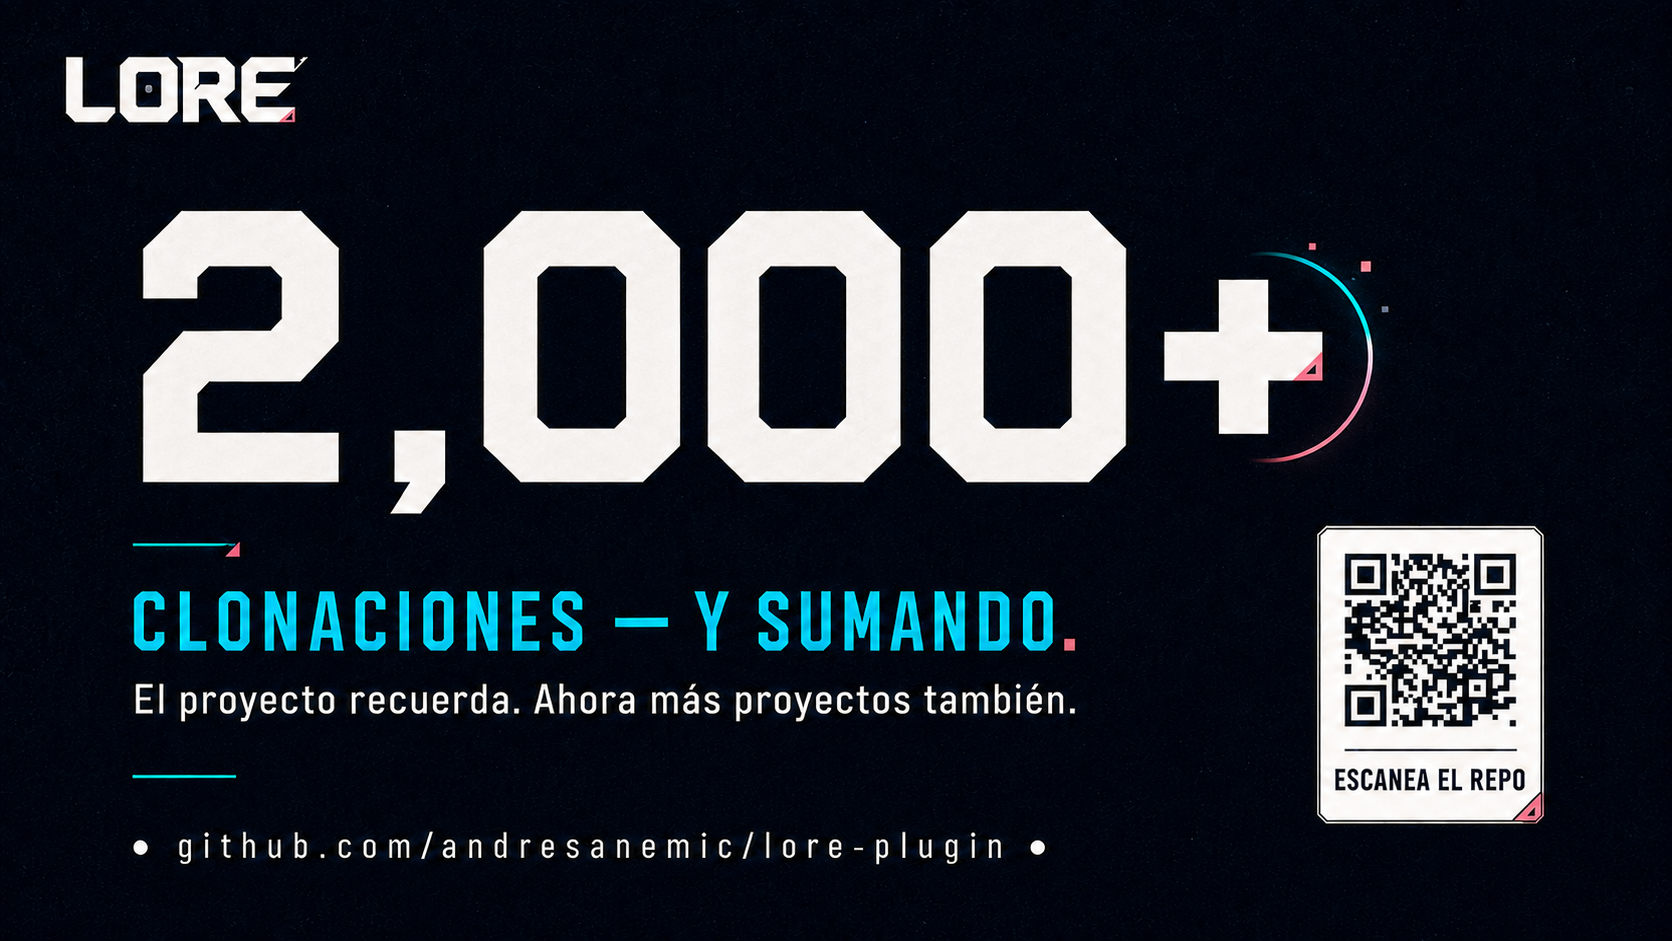
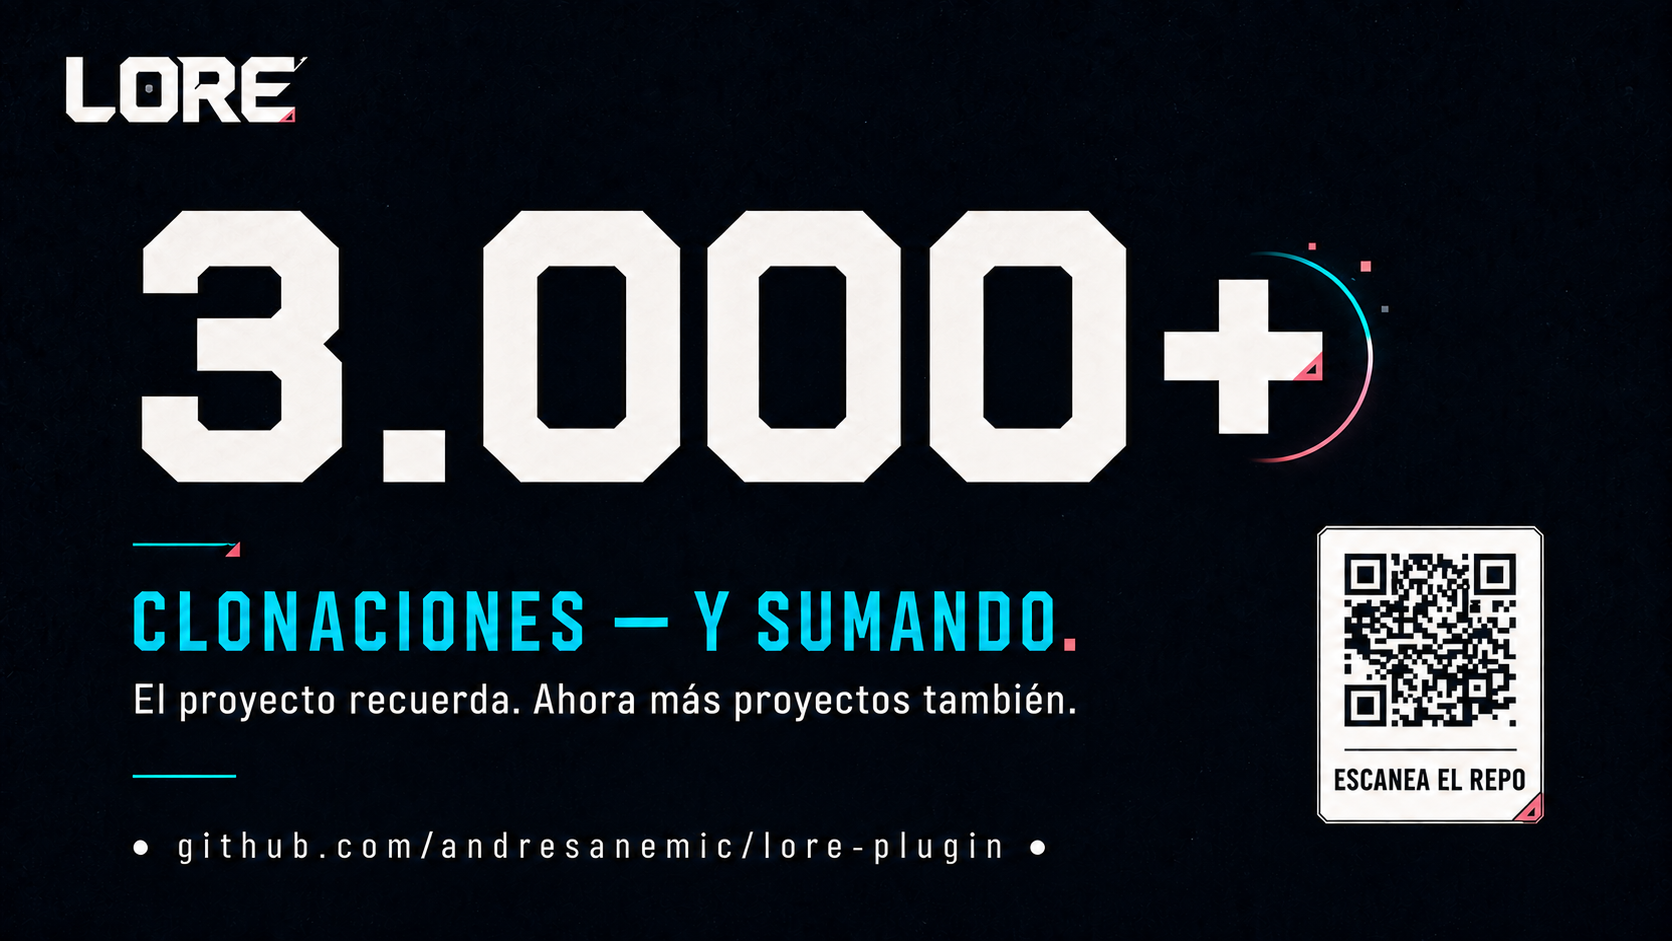
skill: create-area gains narrative soil per section (§20 pilot)

diff --git a/skills/create-area/SKILL.md b/skills/create-area/SKILL.md
@@ -32,6 +32,10 @@ creates the area.
 
 ## Area model (federated + hybrid)
 
+Ya viviste la escena: un dominio nuevo te pide casa propia y terminas copiando el contrato del
+proyecto anterior, con el nombre viejo sin cambiar y las fases pensadas para otro tipo de trabajo.
+El área nace para que eso no vuelva a pasar.
+
 - The area is a **light** folder: one instruction contract + `FASES.md` + `lore/` + `proyectos/` + `_starter/`.
 - The area carries its own **project scaffold** in `_starter/` — the templates (`{{CONTRACT_FILE}}.template.md`,
   `FASES.md`, and `golden-paths.template.md` when the domain warrants it) **tuned to this area's
@@ -48,7 +52,14 @@ creates the area.
 
 ## Procedure (step by step)
 
+Llegas con el dominio en la cabeza pero sin identidad escrita. Este es el orden que lo sostiene:
+primero se piensa, después se escribe, al final se verifica. Saltarse el umbral es la vía más
+rápida hacia un área de la que en seis meses nadie se acuerda.
+
 ### 1. Identity brainstorm (threshold)
+
+Te piden un área y ya traes las carpetas creadas en la cabeza. Aquí se invierten los tiempos:
+primero la forma, después los archivos.
 
 **Create no file or folder before the design is approved.** Invoke Lore Plugin's own
 `brainstorming-lore` skill (`lore:brainstorming-lore` where skills are namespaced). Ask
@@ -114,6 +125,8 @@ carry each approved decision into the accumulated area design and recap it at co
 
 ### 2. Create the structure
 
+La identidad ya tiene tu sí. Ahora sí se toca disco: la carpeta madre, sus subcarpetas y nada más.
+
 ```bash
 PATH_AREA="{{PATH}}"
 mkdir -p "$PATH_AREA/lore" "$PATH_AREA/proyectos" "$PATH_AREA/_starter"
@@ -142,6 +155,9 @@ Resulting structure:
 
 ### 3. Write the files with **Write** (resolved content, no `{{TOKENS}}`)
 
+Los archivos salen del brainstorm, no de la plantilla copiada. Cada `{{TOKEN}}` se resuelve con lo
+que ya quedó dicho.
+
 Do not copy templates blind: write each file resolving the tokens with what was discussed in the
 brainstorm. Reference templates below (§Templates).
 
@@ -149,6 +165,9 @@ Order: `lore/identidad.md` → `lore/principios.md` → optional `lore/perfil-pr
 (+ any thematic module agreed in the brainstorm).
 
 ### 3b. Generate the area's project scaffold (`_starter/`)
+
+Cada nuevo proyecto nacerá con la cara de esta área o nacerá mal. Por eso `_starter/` se afina
+aquí, una vez, y no en cada proyecto.
 
 Write the project templates **tuned to this area's domain** into `_starter/`. These are what
 `create-project` stamps for every new project — so they must reflect this area's stack, phases and
@@ -189,25 +208,30 @@ another person's Notion bases, house style or corpus into the kit. Every `_start
 
 ### 4. Verify and report
 
+Antes de decir "listo", se recorre lo escrito con ojos de extraño: ¿tiene sentido lo que un
+usuario nuevo encontraría aquí?
+
 - Verify the area and starter each contain exactly one contract file. Do not generate both names by
   default. If the user needs both hosts, offer Codex's `project_doc_fallback_filenames` setting or,
   only with explicit approval, a minimal pointer adapter.
 - Verify the **floor** on both contracts (area + `_starter/`): one `<!-- lore:always-on -->` block,
   four things, ≤ 25 lines; `FASES.md` named outside `lore/`; no `HARD-GATE` in present tense; no
   plugin wrap. A project starter points at `../../../lore/`. A `bots` starter points at `canon/`
-  and `lore/enrutamiento.md`.
+  and `lore/enrutamiento.md`. (The floor itself is defined in §3b.)
 - Verify no unresolved `{{TOKEN}}` remains in any file.
 - Verify every `index.md` link resolves to a present file.
 - Report the created structure and the **next step** (create a project with `create-project`, or
   adopt an existing one by registering it by hand in `FASES.md`).
 - **If another skill sent you here, the next step is to go back to it** — not `create-project`.
-  `create-bot` needs its host area before the bot can exist, and `create-project` needs the area it
-  was pointed at. Resume the owning operation silently in the same session; name it only if the user
+  Resume the owning operation silently in the same session; name it only if the user
   named it or asked for technical detail. The user
   asked for a bot or a project; an area reported as the finished deliverable answers a request nobody
   made, and the request that is still open is the one they will not restate.
 
 ## Invariants
+
+Hay cosas que no se negocian una vez creada el área. Si dudas sobre una decisión concreta,
+vuelve a esta lista antes de actuar.
 
 - `lore/` ALWAYS at the area root. `FASES.md` ALWAYS **outside** `lore/` (Lore is criteria that
   persists; FASES is state that advances — never mix them).
@@ -216,10 +240,10 @@ another person's Notion bases, house style or corpus into the kit. Every `_start
   selected contract name (`CLAUDE.md` or `AGENTS.md`) / `lore/` / `index.md` / `golden-paths.md` / `_starter/` and general technical
   English terms excluded). Never default to English/Spanish because the skill or the templates are.
 - The area carries a **domain-tuned `_starter/`** (project templates + optional code scaffold);
-  `create-project` stamps from it, never from a global/hardcoded starter. This is what keeps the kit
-  path-agnostic. The starter always meets the **structural floor** in §3b — that is how a stranger
-  using this kit gets the same quality of `_starter/` as a mature area, without inheriting someone
-  else's domain. When the area is `bots`, the starter is the bot variant.
+  `create-project` stamps from it, never from a global/hardcoded starter. The starter always meets the
+  **structural floor** in §3b — that is how a stranger using this kit gets the same quality of
+  `_starter/` as a mature area, without inheriting someone else's domain. When the area is `bots`,
+  the starter is the bot variant.
 - **A paragraph is a paragraph** (kit invariant in `use-lore`): generated `lore/`, contract and
   `FASES.md` are not hard-wrapped at column 80.
 - The area is NOT auto-committed. The user decides.
@@ -227,11 +251,16 @@ another person's Notion bases, house style or corpus into the kit. Every `_start
 - **A derived area returns to its caller.** This skill is a **step** inside `create-bot` and
   `create-project` as often as it is a destination, and ending at its own report is how a request for
   three bots becomes three areas: what names the deliverable is the caller's request, which is still
-  open. When called by `create-bot`, the area is `bots` — one of them, holding every bot as a project.
+  open. When called by `create-bot`, the area is `bots` — one of them, holding every bot as a project
+  (see the `bots` note in §1).
 
 ---
 
 ## Templates (reference)
+
+Los templates son forma, no texto literal. Copiarlos a ciegas es el error que esta sección
+existe para evitar: cada heading, frase y filename localizable se renderiza en el idioma del
+usuario.
 
 > These templates are **shape, not literal text**: render every heading, sentence AND localizable
 > filename in the user's language (per the language rule above), keeping structure and the fixed
@@ -255,8 +284,7 @@ registro: {{REGISTRO}}
 ```
 
 > `registro:` sits above the sections because it is **not** one of them: it is a declared preference
-> about how the kit speaks here, not a claim about what this area is. It carries no confidence marker
-> and is never promoted.
+> about how the kit speaks here, defined in §1 (`{{REGISTRO}}`) — carries no confidence marker, never promoted.
 
 ### `lore/principios.md`
 
@@ -351,6 +379,9 @@ if a fact does not constrain a future decision, it does not enter. Packaging a t
 ---
 
 ## Project-scaffold templates (`_starter/`, reference)
+
+Los templates de proyecto llevan `{{PROJECT_TOKENS}}` que `create-project` resuelve por
+proyecto. No son una copia global: cada área los afina a su dominio.
 
 These are **project** templates the area stamps — they carry `{{PROJECT_TOKENS}}` that
 `create-project` resolves per project. Tune them to the area's domain.

diff --git a/README.md b/README.md
@@ -484,7 +484,7 @@ Lore was not designed ahead of time: every decision came from applying it to rea
 ## Reach
 
 <p align="center">
-  <img src="./assets/reach-en.png" alt="2,000+ clones and counting" width="100%">
+  <img src="./assets/reach-en.png" alt="3,000+ clones and counting" width="100%">
 </p>
 
 <p align="center">
@@ -1081,7 +1081,7 @@ Lore no se diseñó de antemano: cada decisión salió de aplicarlo a proyectos 
 ## Alcance
 
 <p align="center">
-  <img src="./assets/reach-es.png" alt="2.000+ clonaciones y sumando" width="100%">
+  <img src="./assets/reach-es.png" alt="3.000+ clonaciones y sumando" width="100%">
 </p>
 
 <p align="center">
